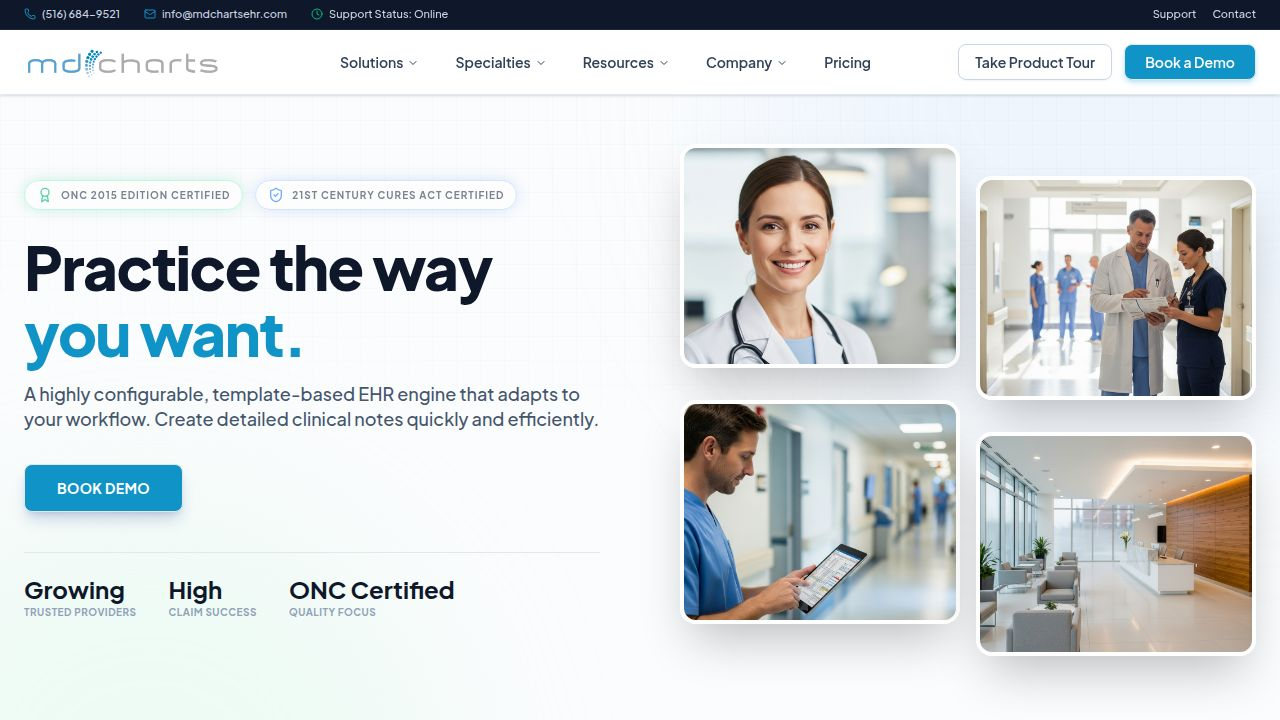
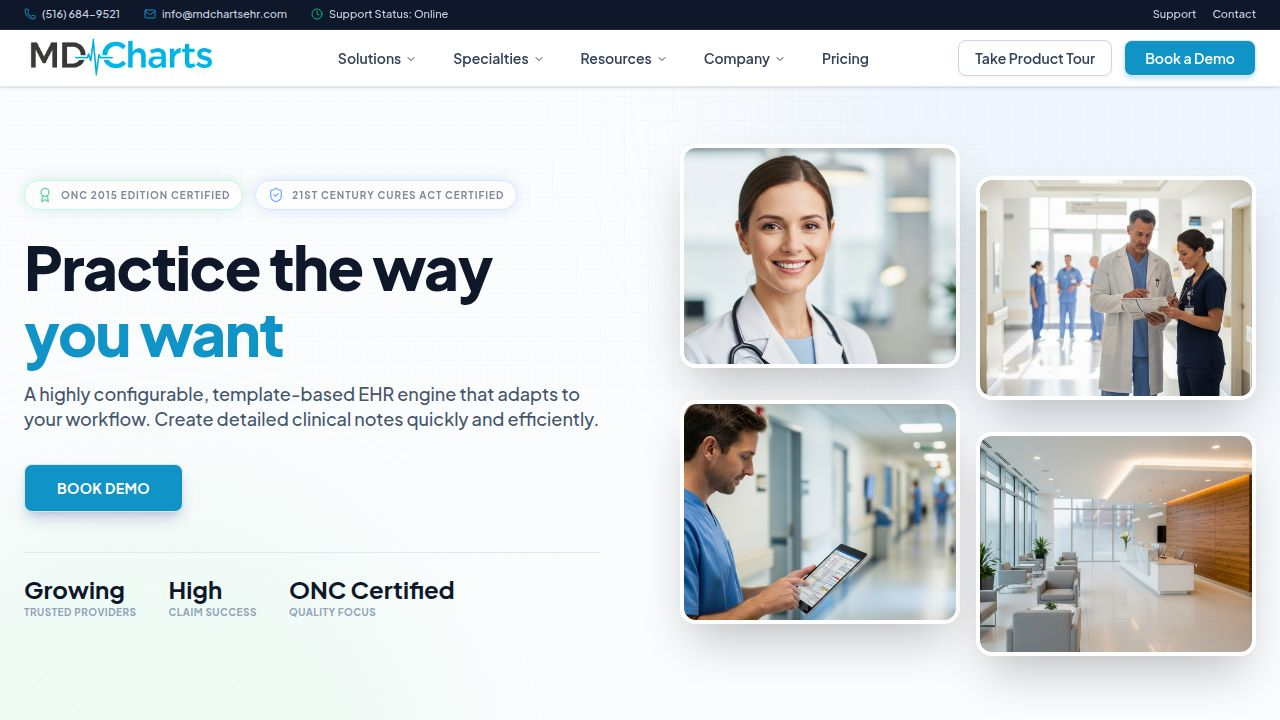
Update compliance image and remove trailing period from tagline
Replaced the global compliance hero image with a US-specific one, and removed a trailing period from the hero tagline for improved accuracy and presentation.

Replit-Commit-Author: Agent
Replit-Commit-Session-Id: 06d38522-12af-48e8-88b8-949e4e4995fc
Replit-Commit-Checkpoint-Type: full_checkpoint
Replit-Commit-Event-Id: 5475158e-1003-4f50-b942-4f1835ee31f3
Replit-Commit-Screenshot-Url: https://storage.googleapis.com/screenshot-production-us-central1/b5dfba87-a687-457e-b0c4-84a10ccf5877/06d38522-12af-48e8-88b8-949e4e4995fc/JJY0MD2
Replit-Helium-Checkpoint-Created: true

diff --git a/client/src/pages/Compliance.tsx b/client/src/pages/Compliance.tsx
@@ -6,7 +6,7 @@ import { Button } from "@/components/ui/button";
 import { Navbar } from "@/components/Navbar";
 import { Footer } from "@/components/Footer";
 import { ContactModal } from "@/components/ContactModal";
-import complianceHeroImage from "@assets/stock_images/doctor_holding_digit_1e5c4a1a.jpg";
+import complianceHeroImage from "@assets/compliance_us_hero.png";
 
 const certifications = [
   {
